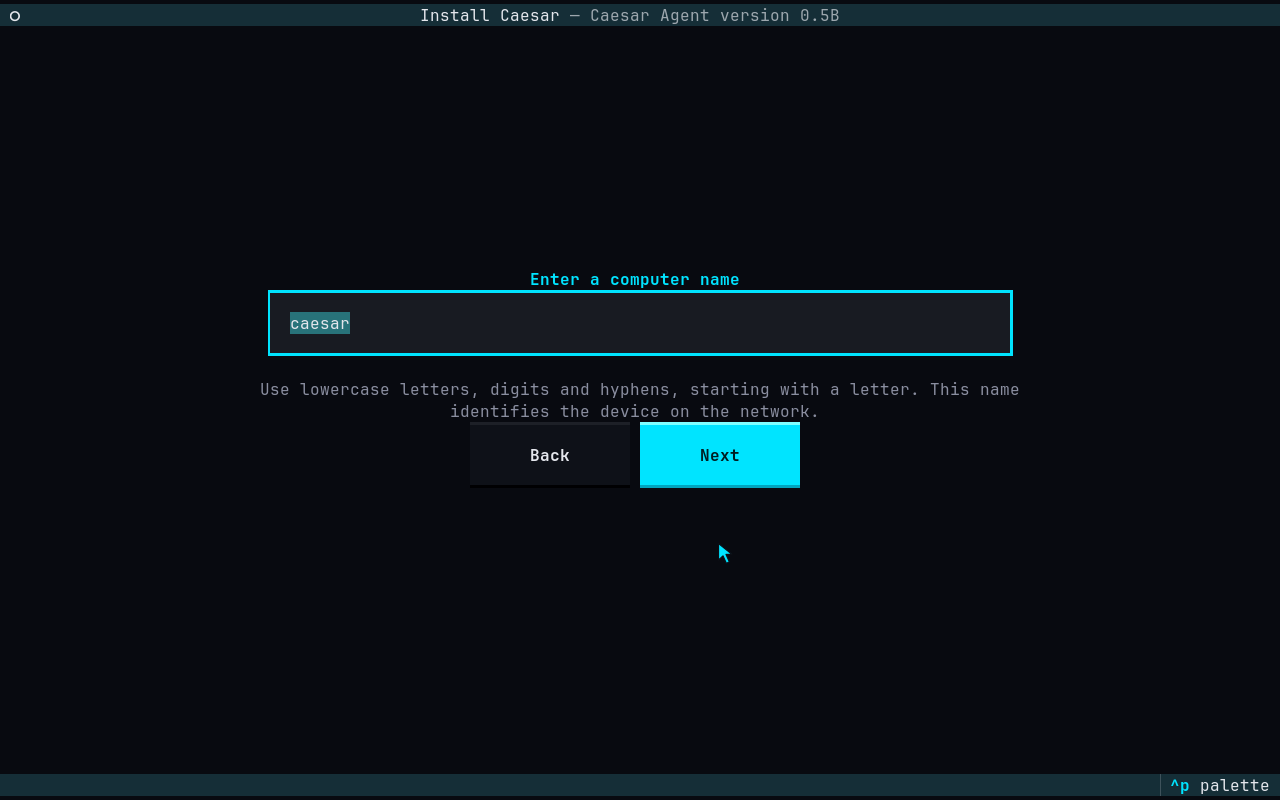
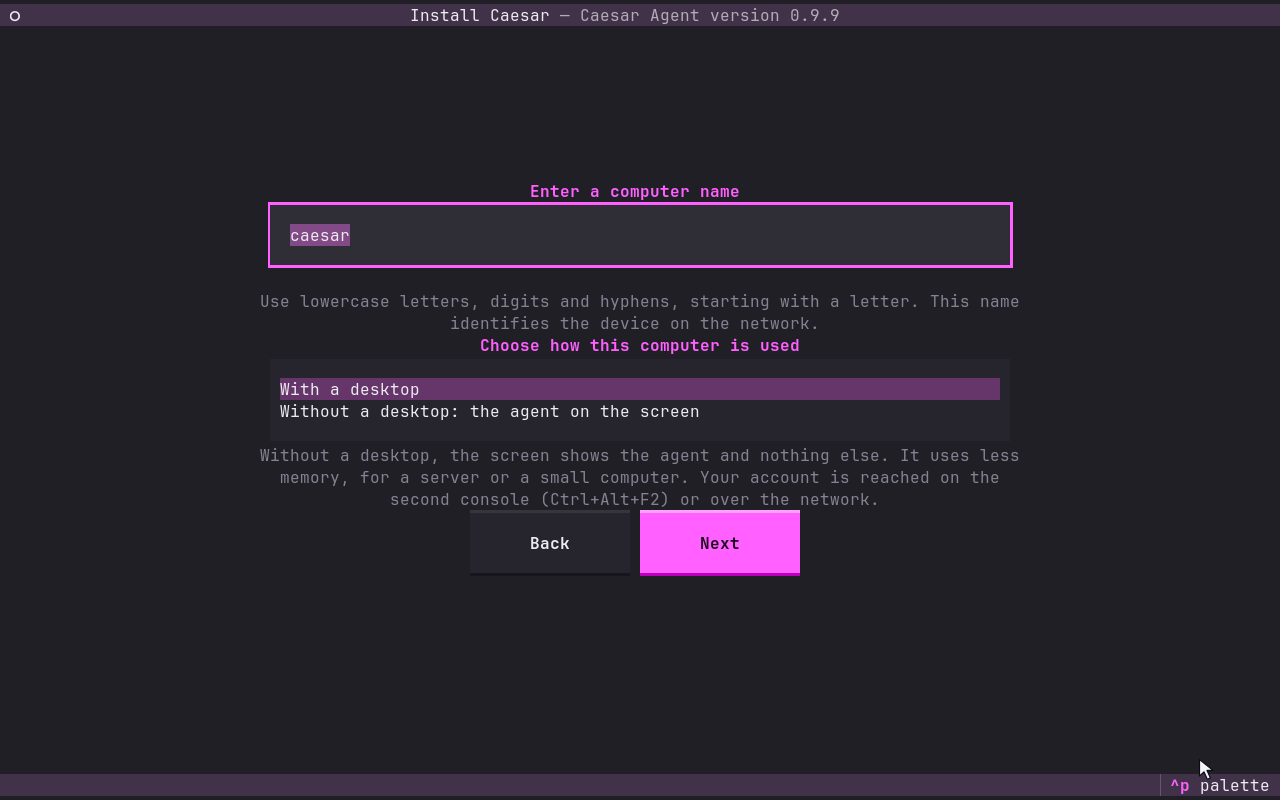
Caesar 0.9.10: the guide and the bug form's version

diff --git a/public/caesar/manual/index.html b/public/caesar/manual/index.html
@@ -128,7 +128,7 @@
 <div class="wrap">
 
 <header class="top">
-  <p class="eyebrow">User manual · Caesar 0.9.9</p>
+  <p class="eyebrow">User manual · Caesar 0.9.10</p>
   <h1>Caesar User Guide</h1>
   <p class="lede col">The purpose of this guide is to help you install Caesar on your computer,
   become familiar with the desktop, and learn to direct the agent to perform tasks. If you are
@@ -173,6 +173,35 @@
           a disk dedicated to Caesar is the simplest and safest option.</li>
       </ul>
       <p>An internet connection is not required for installation, but is recommended afterwards.</p>
+      <p>Caesar is installed with a desktop, or without one, where the screen shows the agent
+      alone (1.5). The computer needs at least the following:</p>
+    </div>
+    <div class="tablewrap">
+      <table>
+        <thead><tr><th></th><th>With a desktop</th><th>Without a desktop</th></tr></thead>
+        <tbody>
+          <tr><td>Processor</td><td colspan="2">A 64-bit x86 processor (x86-64). Caesar 0.9.9 and
+            earlier need one from 2013 or later: Intel Core 4th generation, AMD Ryzen, or
+            newer</td></tr>
+          <tr><td>Memory</td><td>2 GB; 4 GB or more recommended</td><td>2 GB; 4 GB or more recommended</td></tr>
+          <tr><td>Disk</td><td colspan="2">32 GB; 64 GB or more recommended</td></tr>
+          <tr><td>Screen</td><td>1280 pixels wide; 1600 or wider recommended (2.22)</td><td>Any, for
+            the agent on the first console. The installation itself needs one 1280 pixels
+            wide</td></tr>
+          <tr><td>Firmware</td><td colspan="2">UEFI</td></tr>
+        </tbody>
+      </table>
+    </div>
+    <div class="col stack">
+      <p>The memory is what Caesar needs while it thinks through an AI provider over the internet.
+      Each of these needs more of its own: Caesar's ears and voice, about 1.7 GB when kept ready
+      (2.21); a model run on this computer (2.26); and games (2.28). With 2 GB and a desktop,
+      Caesar works but leans on swap; with 4 GB, a quarter of the memory stays free. Without a desktop the same is needed, and less swap is used: most of the memory is held by the model that places Caesar's memories, not by the desktop.</p>
+      <p>The system takes about 7 GB of the disk. The installer adds swap the size of the memory
+      (2 to 8 GB) and the agent memory (8% of the disk, at least 2 GB), and updates keep a copy
+      of the system as it was before them, so the rest of the disk is not idle space.</p>
+      <p>From the next installation medium, Caesar runs on any 64-bit x86 processor. ARM64 computers are not
+      supported yet; their requirements will be given here when they are.</p>
     </div>
   </section>
 
@@ -339,9 +368,25 @@
           <p>Use lowercase letters, digits and hyphens, starting with a letter. This name
           identifies the device on the network:</p>
           <figure>
-            <img src="fig/06-installer-hostname.png" alt="The computer name page, with caesar entered">
+            <img src="fig/06-installer-hostname.png" alt="The computer name page, with caesar entered, and below it the choice With a desktop or Without a desktop: the agent on the screen">
             <figcaption>The computer name</figcaption>
           </figure>
+          <p>The same page asks how the computer is used:</p>
+          <ul>
+            <li><b>With a desktop</b> — the sign-in screen, the desktop and the agent in the
+              pool, as the rest of this guide describes.</li>
+            <li><b>Without a desktop: the agent on the screen</b> — for a server or a small
+              computer. Nothing is drawn but the agent, on the first console, and less memory is
+              used (1.2). The agent is set up there the first time the computer starts: its name,
+              its personality, the agent harness, and a provider and model, asked one at a time.
+              A subscription is signed in to from a phone or another computer, with a page and a
+              code the agent shows. Your account is reached on the second console
+              (Ctrl+Alt+F2) or over the network.</li>
+          </ul>
+          <p>To give a computer installed without a desktop one later, run <code>sudo ln -s
+          /etc/sv/caesar-desktop /etc/sv/caesar-pool /var/service/</code> on the second console,
+          and restart the computer. To take it away, run <code>sudo rm /var/service/caesar-desktop
+          /var/service/caesar-pool</code> and restart.</p>
         </div>
       </li>
 
@@ -453,7 +498,7 @@
     agent's own settings ask. The agent itself is never asked. Its memory, what it sensed and the
     record of its acts are readable by root alone; read them with <code>sudo</code>.
     The 0.9.0 update makes a new root password, since the old one could have been read:
-    <code>sudo caesar-kernel root-phrase</code> shows it.</div>
+    <code>sudo caesar-kernel root-phrase</code> shows it. The door shows it to you alone, after your password, or to root at a console, and records each showing; it never hands it to the agent or to any program.</div>
   </section>
 
   <section>
@@ -585,7 +630,7 @@
           <tr><td>Ctrl + V</td><td>Paste</td></tr>
           <tr><td>Right click</td><td>Paste, in the terminal and the conversation</td></tr>
           <tr><td>Select with the mouse</td><td>Also copies, in the terminal and the conversation</td></tr>
-          <tr><td>Ctrl + C, nothing selected</td><td>Terminal only: stops the running program</td></tr>
+          <tr><td>Ctrl + C, nothing selected</td><td>Goes to the program: in the terminal it stops the running program, and in the pool the agent harness takes it as its own (Grok Build cancels its turn, Claude Code clears its line)</td></tr>
         </tbody>
       </table>
       <table>
@@ -692,7 +737,7 @@
           signed it. The key is replaced every 6 hours. On a computer with no desktop, the seat
           on the first text console gets a key of its own in the same way.</li>
         <li><b>Refused calls are recorded.</b> A call the pool's key did not sign is refused with
-          <code>The door answers the harness in the pool only.</code>, and the record names the
+          <code>The door answers the harness in the pool, or on the first console where there is no desktop, only.</code>, and the record names the
           program that made it.</li>
         <li><b>Memory and secrets.</b> Caesar's memory and the secrets manager are opened only
           inside the door: for the agent in the pool, Caesar's own services and jobs, root signed
@@ -749,7 +794,7 @@
         <thead><tr><th>Access method</th><th>Account</th><th>Requirement</th></tr></thead>
         <tbody>
           <tr><td>Sign-in screen</td><td>Your user account</td><td class="need">Your password, in the sign-in box</td></tr>
-          <tr><td>First console</td><td>The agent (root)</td><td class="free">None. This console runs the agent harness and is not a user sign-in</td></tr>
+          <tr><td>First console</td><td>The agent (root)</td><td class="free">None. With a desktop it shows nothing. Without one it runs the agent harness alone, and is not a user sign-in</td></tr>
           <tr><td>Second console</td><td>Your user account</td><td class="need">Your password</td></tr>
           <tr><td>Serial cable</td><td>Your user account</td><td class="need">Your password</td></tr>
           <tr><td>Over the network</td><td>Your user account</td><td class="need">A password or a key you installed</td></tr>
@@ -759,7 +804,9 @@
     </div>
     <div class="note col"><b>Why the first console requires no password:</b> the first console runs
     the agent under the root account, which administers the computer. The account has no password
-    because the agent never enters one. The console cannot be used to access your account, because
+    because the agent never enters one. The console offers nothing but the agent: when the agent
+    ends, it starts again, and no shell is ever reached there. The agent there holds the same key
+    to the door as the agent in the pool, and is held to the same rules. The console cannot be used to access your account, because
     your account is separate and password-protected. Caesar ships with <b>no network keys</b>, so
     remote access is not possible until you install a key yourself.</div>
   </section>
@@ -779,6 +826,16 @@
         <img src="fig/19-the-machine.png" alt="The file window showing the root of the filesystem: bin, boot, dev, etc, home, lib, mnt, nix, opt and others">
         <figcaption>The root of the file system</figcaption>
       </figure>
+      <p><b>A copy of your home folder.</b> Your settings, your sign-ins and your game saves are in
+      your home folder, so a copy of it keeps them. A few of your choices are kept by the computer
+      instead: the theme, the desktop picture, the jobs you scheduled and the programs installed
+      from Software. While you are signed in, Caesar writes a note of them into your home folder
+      (<code>~/.config/caesar/machine.json</code>), so the copy keeps those too. When your home
+      folder is put back on another Caesar, or on this one installed again, a window asks at
+      sign-in which of them to put back: tick them and press <b>Put back</b>, or press
+      <b>Keep this Caesar's</b>. Esc asks again at the next sign-in. Installing a program may ask
+      your password. Passwords, keys, networks and devices are never in the note: they stay
+      the computer's.</p>
       <p>Double-click a file to open it. Pictures (PNG, JPEG, GIF, WebP, SVG, BMP and TIFF) open in
       the <b>image viewer</b>, LXImage-Qt, which is also in the menu. Its arrow buttons go to the
       previous or next picture in the same folder. Text files open in FeatherPad, and music and
@@ -1110,7 +1167,8 @@
       used by it alone; a Claude subscription is never offered to any other harness. A Google
       Cloud key file chosen for Vertex AI is not handed to another harness either: a harness
       with no choice of its own then starts on its own sign-in. Feng TUI's
-      own ChatGPT and xAI sign-ins, and every API key, are kept in the system's key store.</p>
+      own ChatGPT and xAI sign-ins, and every API key, are kept in the system's key store, which
+      the door alone opens (2.24).</p>
       <p><b>Antigravity</b> is Google's harness. It thinks only through its own Google sign-in, so
       it uses your Google AI plan, and nothing of Caesar's is handed to it. Choose
       <b>Google sign-in · Antigravity</b> in the wizard: it shows a Google page to open, and the
@@ -1663,10 +1721,12 @@
       <p><b>Choosing a resolution.</b> The pool keeps the left 40% of the main screen, and every
       window opens in the patio, the other 60%. Each program has a narrowest width it can be drawn
       at. When the patio is narrower than that, the window is drawn smaller so that it fits whole
-      in the patio, down to half its size, and clicks still land where you see them. Text in it
-      is smaller too. Programs that use the older X11 display system (most games and some older
-      programs) are not drawn smaller: they run past the right edge of the screen. So the width
-      of the main screen decides which programs are drawn at their own size. Count the width after scaling:
+      in the patio, down to half its size, and clicks and its menus still land where you see
+      them. Text in it is smaller too. This holds for programs that use the older X11 display
+      system as well; on a screen less tall than such a program asks for, it can leave a strip
+      of the patio empty below it. Below half its size text grows too small to read, so a program
+      that would need less is drawn at half and runs past the right edge of the screen. So the
+      width of the main screen decides which programs are drawn at their own size. Count the width after scaling:
       the resolution's width divided by the scale. A 2560-wide screen at 200% counts as 1280, and
       a 3840-wide screen at 200% counts as 1920.</p>
     </div>
@@ -1820,12 +1880,19 @@
       give a short name and what it is for, fill in the rest and select <b>Save</b>; saving again
       under a name already held replaces what was held. <b>Remove</b> deletes one. No secret is
       ever shown; each use is recorded by name.</p>
-      <p>A secret is opened only inside the door (2.5): for the agent in the pool, or for one of
-      Caesar's own services. No other program can open one, root included, and each refusal is
-      recorded. The secrets manager will not keep a password that an account on this computer
+      <p>A secret is opened only inside the door (2.5): for the agent in the pool, for the agent
+      on the first console of a computer without a desktop, or for one of Caesar's own services.
+      No other program can open one, root included, and each refusal is recorded. The secrets manager will not keep a password that an account on this computer
       signs in with, which is also that account's sudo password: Caesar never holds a person's
       password. The one exception to the door is the Model Manager, which may read the Hugging
       Face token when you started it with sudo and typed your password.</p>
+      <p>What the agent thinks with is held the same way. A provider's API key, the ChatGPT and
+      xAI sign-ins the system keeps, and the key Caesar's own model server makes for itself are
+      opened by the door alone. The door answers the agent holding its key, Caesar's own
+      services, and you through sudo with your password. A window that asked no password is given
+      the names, may put a key in or let one go, and has a provider's models listed for it by the
+      door itself; it is never given a key. Each read, put and removal is recorded by the key's
+      name and who asked, and the key itself is never written in the record.</p>
       <p>From a terminal: <code>sudo caesar-kernel secrets list</code> lists them by name,
       purpose, date and kind; <code>sudo caesar-kernel secrets set NAME "what it is for"</code>
       stores the key given on standard input, and with <code>--kind token</code>,
@@ -2024,8 +2091,7 @@
       checksums (about 700 MB; Steam updates itself the first time it opens). <b>Open Steam</b>
       shows it; sign in to it yourself. <b>Close Steam</b> ends it and any game it started. Steam
       and its games draw with the graphics drivers this computer is built with, and never with a
-      card kept for computing (see below). A <b>Steam</b> entry in the Games menu opens it too,
-      and links that begin with <code>steam:</code> open in it.</p>
+      card kept for computing (see below). Links that begin with <code>steam:</code> open in it.</p>
       <p>Each player has a Steam of their own: their sign-in, saves and the Windows folders of
       their Proton games are in the <code>Games</code> folder in their home, which only they
       can open. The games themselves are one copy for every player, in
@@ -2042,8 +2108,11 @@
       which Steam needs to start any game and which comes with an update; a graphics card for
       games; and the rules that let Steam open game pads. Steam still opens. If you used Steam
       from Software before, its folder in your home stays as it is: sign in again in this
-      Steam, and add your old games under Steam's Settings, Storage, or install them again. From
-      a terminal: <code>colosseum install steam</code>, <code>colosseum start steam</code>,
+      Steam, and add your old games under Steam's Settings, Storage, or install them again.
+      Open one Steam at a time: Steam lets one be signed in to an account, and signs the other
+      out, which can leave server lists empty and games unable to start. Colosseum's Steam does
+      not open while another Steam is open, and says so. From a terminal:
+      <code>colosseum install steam</code>, <code>colosseum start steam</code>,
       <code>colosseum stop steam</code>, <code>colosseum status steam</code>.</p>
       <h3>Which graphics card games use</h3>
       <p>Games see only the graphics cards that are there for a screen. A card with no place to
@@ -2557,13 +2626,18 @@ setsid nohup env CAESAR_LFS=/mnt/lfs \
       <ul class="plain">
         <li>The shipped shortcuts have none for the skills folder; open <b>Skills</b> from the
           menu, or add it to the shortcut bar with <b>+</b>.</li>
+        <li><b>A desktop icon can stay under the top bar.</b> An icon the desktop has a place
+          saved for keeps that place even when the room kept for the bar grows, as it does from
+          update 0.9.10 where the bar names a screen the computer no longer has. Drag the icon
+          down, or right-click the desktop and choose <b>Sorting</b>.</li>
         <li>In a narrow Conversations window, the format list and <b>Export…</b> are cut off at
           the right. Maximise the window to reach them.</li>
-        <li><b>A program wider than the patio is drawn smaller to fit, but not an X11 one.</b> A
+        <li><b>A program much wider than the patio still runs past the screen's edge.</b> A
           program that will not be narrower than the patio is drawn smaller, down to half its
-          size; one drawn through the older X11 display system still runs past the right edge of
-          the screen, and so does one that would need to be drawn at less than half its size.
-          Maximize it, or choose a wider resolution for the main screen.</li>
+          size, an X11 one too; one that would need to be drawn at less than half its size still
+          runs past the right edge of the screen. An X11 program drawn smaller can leave a strip of
+          the patio empty below it, as the X11 display system cannot be told a window taller than
+          the screen. Maximize it, or choose a wider resolution for the main screen.</li>
         <li>Task Scheduler cuts long job names short in its list; select a job to see its full
           name.</li>
         <li>In the Antigravity seat, the lines that separate the turns are narrower than the pool,
